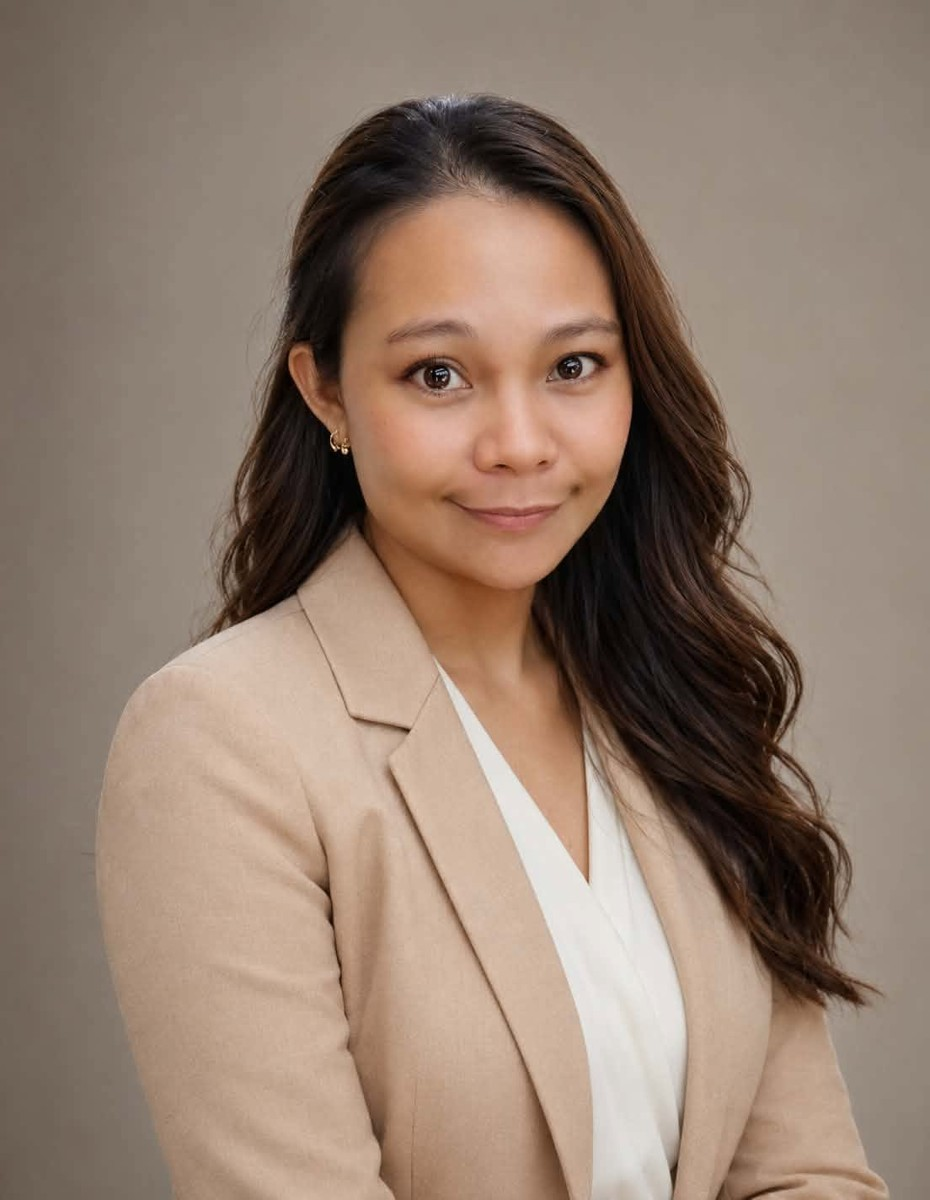
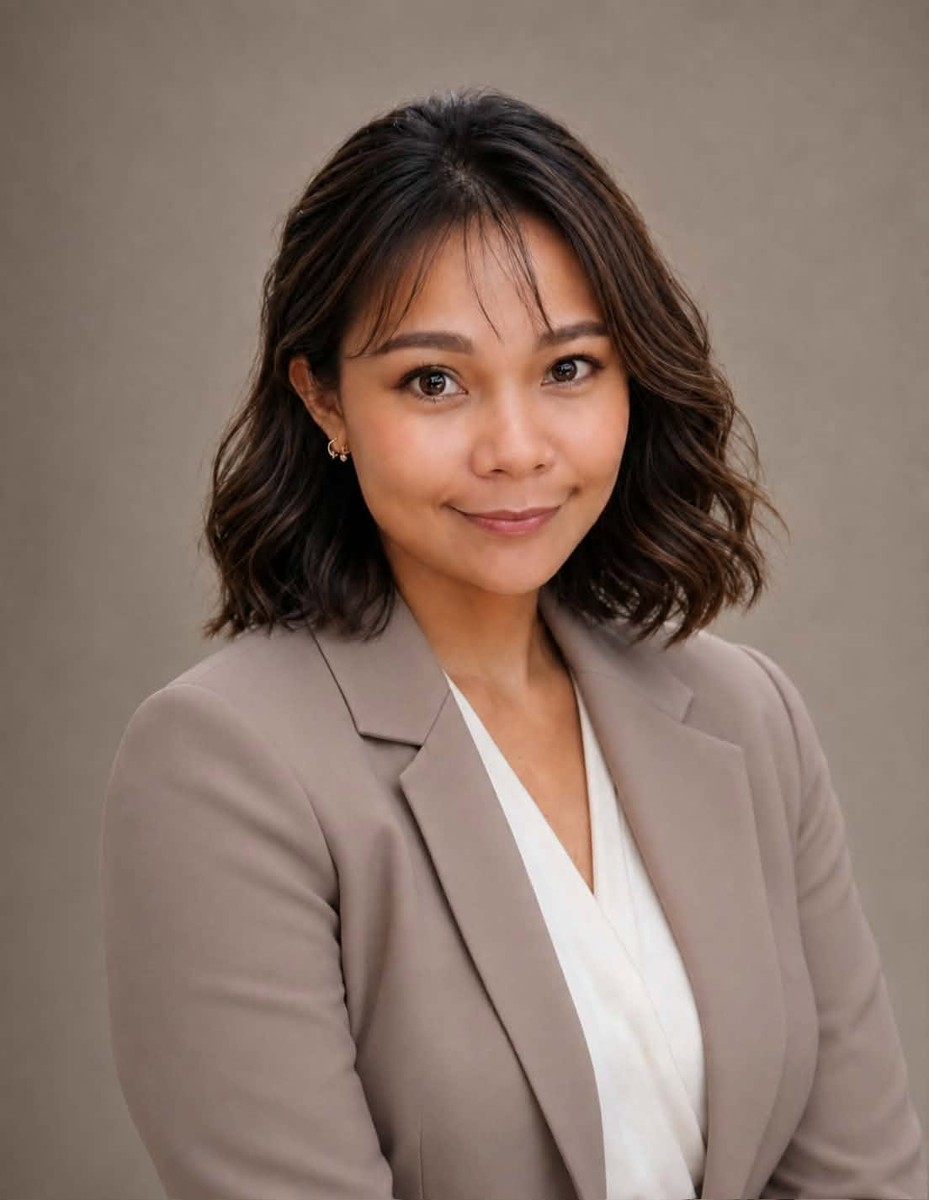
Azure Urban Resort Residences Staycation

diff --git a/app/booking-process/page.tsx b/app/booking-process/page.tsx
@@ -1,0 +1,91 @@
+import Header from "../components/Header";
+import Footer from "../components/Footer";
+
+export const metadata = {
+  title: "Booking Process — Azure Staycation by Siaos",
+  description:
+    "How to book your staycation with Azure Staycation by Siaos — reservation, guest registration, parking, and check-in process.",
+};
+
+export default function BookingProcessPage() {
+  return (
+    <div className="flex flex-col">
+      <Header />
+      <article className="mx-auto max-w-2xl px-6 pt-16 pb-24">
+        <p className="uppercase tracking-[0.2em] text-xs font-semibold text-sage-deep mb-3">
+          Azure Staycation by Siaos
+        </p>
+        <h1 className="font-display text-4xl text-ink mb-6">Booking Process</h1>
+        <p className="text-ink-soft leading-relaxed mb-10">
+          Please make sure you&rsquo;ve gone through our{" "}
+          <a href="/house-rules" className="text-clay-deep underline">
+            house rules
+          </a>{" "}
+          and Azure management policies to avoid extra charges and penalties.
+        </p>
+
+        <div className="space-y-10 [&_h2]:font-display [&_h2]:text-xl [&_h2]:text-ink [&_h2]:mb-3 [&_p]:text-ink-soft [&_p]:leading-relaxed [&_p]:mb-3">
+          <div>
+            <h2>1. Send the reservation fee</h2>
+            <p>QR codes are available on our Payment Channels page. You can pay via:</p>
+            <ul className="list-disc pl-5 text-ink-soft space-y-1 mb-3">
+              <li>GCash — 0920 970 1226</li>
+              <li>Maya — 0920 970 1226</li>
+              <li>Vybe — 0920 970 1226</li>
+              <li>BPI — available upon request</li>
+            </ul>
+            <p>All accounts are under Lyryque Lysl Camylle Siaotong. Once done, please send us your payment proof for verification.</p>
+          </div>
+
+          <div>
+            <h2>2. Fill out our guest registration form</h2>
+            <p>
+              Please include valid IDs for all occupants for guest
+              registration. Provide copies of government-issued IDs for all
+              occupants aged 18 and above. If the ID doesn&rsquo;t show an
+              age, please include it on the form. For foreign nationals,
+              please send their IDs as well.
+            </p>
+          </div>
+
+          <div>
+            <h2>3. QR code issuance</h2>
+            <p>
+              Your entry QR code will be issued a day before check-in or on
+              the check-in day itself. We process guest registrations one at
+              a time, as other guests may have booked before you — rest
+              assured you&rsquo;ll receive it a day before or on the day of
+              your check-in.
+            </p>
+          </div>
+
+          <div>
+            <h2>4. Parking (optional)</h2>
+            <p>
+              Please let us know ahead of time if you&rsquo;ll need a
+              parking slot. With pre-arranged parking, you won&rsquo;t need
+              to line up before parking and exiting — you&rsquo;ll still
+              need to line up at the verification booth on arrival, but
+              afterward you&rsquo;ll be issued a parking pass with a
+              designated slot you can enter and exit multiple times during
+              your stay. Just inform security at the parking entrance/exit.
+            </p>
+          </div>
+        </div>
+
+        <p className="text-sm text-ink-soft mt-10 pt-6 border-t border-ink/10">
+          Questions about the booking process? Contact us at{" "}
+          <a href="mailto:staycationnearme2023@gmail.com" className="text-clay-deep underline">
+            staycationnearme2023@gmail.com
+          </a>{" "}
+          or{" "}
+          <a href="tel:+639209701226" className="text-clay-deep underline">
+            +63 920 970 1226
+          </a>
+          .
+        </p>
+      </article>
+      <Footer />
+    </div>
+  );
+}

diff --git a/app/payment-channels/page.tsx b/app/payment-channels/page.tsx
@@ -1,0 +1,71 @@
+import Image from "next/image";
+import Header from "../components/Header";
+import Footer from "../components/Footer";
+
+export const metadata = {
+  title: "Payment Channels — Azure Staycation by Siaos",
+  description:
+    "Accepted payment methods for Azure Staycation by Siaos: GCash, Maya, Vybe, and BPI bank transfer.",
+};
+
+const CHANNELS = [
+  { name: "GCash", number: "0920 970 1226", qr: "/images/payment/qr-1.jpg" },
+  { name: "Maya", number: "0920 970 1226", qr: "/images/payment/qr-2.jpg" },
+  { name: "Vybe", number: "0920 970 1226", qr: "/images/payment/qr-3.jpg" },
+  { name: "BPI", number: "Available upon request", qr: "/images/payment/qr-4.jpg" },
+];
+
+export default function PaymentChannelsPage() {
+  return (
+    <div className="flex flex-col">
+      <Header />
+      <article className="mx-auto max-w-3xl px-6 pt-16 pb-24">
+        <p className="uppercase tracking-[0.2em] text-xs font-semibold text-sage-deep mb-3">
+          Azure Staycation by Siaos
+        </p>
+        <h1 className="font-display text-4xl text-ink mb-4">Payment Channels</h1>
+        <p className="text-ink-soft leading-relaxed mb-10 max-w-xl">
+          All accounts are under Lyryque Lysl Camylle Siaotong. We do not
+          accept cash payments — please ensure you can transfer online.
+          Scan a QR code below, or send directly to the number listed.
+        </p>
+
+        <div className="grid sm:grid-cols-2 gap-6 mb-12">
+          {CHANNELS.map((c) => (
+            <div key={c.name} className="bg-cream-card border border-ink/10 rounded-2xl p-6 text-center">
+              <h2 className="font-display text-xl text-ink mb-3">{c.name}</h2>
+              <div className="relative aspect-square w-40 mx-auto mb-3 rounded-lg overflow-hidden border border-ink/10">
+                <Image src={c.qr} alt={`${c.name} QR code`} fill sizes="160px" className="object-contain bg-white" />
+              </div>
+              <p className="text-sm text-ink-soft">{c.number}</p>
+            </div>
+          ))}
+        </div>
+
+        <div className="space-y-3 text-ink-soft leading-relaxed border-t border-ink/10 pt-8">
+          <h2 className="font-display text-xl text-ink mb-2">Good to know</h2>
+          <ul className="list-disc pl-5 space-y-2">
+            <li>Reservations are on a first-come, first-served basis and subject to room availability.</li>
+            <li>The reservation fee is non-refundable.</li>
+            <li>For cancellations on peak dates/holidays, rescheduling is not allowed. Peak dates, holidays, wedding proposals, engagement parties, stag parties, and bridal showers require a 50% reservation fee.</li>
+            <li>We reserve the right to set the reservation fee depending on your selected date.</li>
+            <li>Please send a screenshot of your payment once completed. Balance upon arrival must also be settled via GCash, Maya, Vybe, or BPI bank transfer only.</li>
+          </ul>
+        </div>
+
+        <p className="text-sm text-ink-soft mt-10 pt-6 border-t border-ink/10">
+          Please also review our{" "}
+          <a href="/house-rules" className="text-clay-deep underline">
+            house rules
+          </a>{" "}
+          and{" "}
+          <a href="/terms-and-conditions" className="text-clay-deep underline">
+            terms and conditions
+          </a>{" "}
+          to avoid any unnecessary charges.
+        </p>
+      </article>
+      <Footer />
+    </div>
+  );
+}

diff --git a/app/page.tsx b/app/page.tsx
@@ -34,8 +34,8 @@ const SOCIAL_PROOFS = [
 
 const READY_TO_BOOK = [
   { label: "House Rules", href: "/house-rules", internal: true },
-  { label: "Booking Process", href: CANVA_LINKS.bookingProcess, internal: false },
-  { label: "Payment Channels", href: CANVA_LINKS.paymentChannels, internal: false },
+  { label: "Booking Process", href: "/booking-process", internal: true },
+  { label: "Payment Channels", href: "/payment-channels", internal: true },
   { label: "Terms and Conditions", href: "/terms-and-conditions", internal: true },
 ];
 
@@ -97,7 +97,7 @@ export default function Home() {
                 rel="noopener noreferrer"
                 className="rounded-full border border-ink/20 px-7 py-3 font-semibold text-ink hover:border-ink transition-colors"
               >
-                Exclusions: motor and pool access
+                Exclusions: Parking fee and Pool access
               </a>
             </div>
           </div>
@@ -262,17 +262,21 @@ export default function Home() {
       </section>
 
       {/* Ready to Book */}
-      <section className="mx-auto max-w-6xl px-6 py-20 text-center">
-        <div className="flex items-center justify-center gap-3 mb-10">
-          <h2 className="font-display text-3xl text-ink">Ready to Book?</h2>
+      <section className="mx-auto max-w-6xl px-6 py-24 text-center">
+        <div className="flex items-center justify-center gap-3 mb-4">
+          <h2 className="font-display text-4xl text-ink">Ready to Book?</h2>
         </div>
-        <div className="grid grid-cols-2 md:grid-cols-4 gap-4 mb-10">
+        <p className="text-ink-soft max-w-lg mx-auto mb-12">
+          Everything you need to know before your stay — review these, then
+          send us your inquiry below.
+        </p>
+        <div className="grid grid-cols-2 md:grid-cols-4 gap-5">
           {READY_TO_BOOK.map((r) =>
             r.internal ? (
               <Link
                 key={r.label}
                 href={r.href}
-                className="rounded-xl border border-ink/10 px-4 py-6 text-sm font-semibold text-ink hover:border-clay-deep hover:text-clay-deep transition-colors"
+                className="rounded-2xl border border-ink/10 bg-cream-card px-6 py-10 text-base font-semibold text-ink hover:border-clay-deep hover:text-clay-deep hover:shadow-md transition-all"
               >
                 {r.label}
               </Link>
@@ -282,19 +286,13 @@ export default function Home() {
                 href={r.href}
                 target="_blank"
                 rel="noopener noreferrer"
-                className="rounded-xl border border-ink/10 px-4 py-6 text-sm font-semibold text-ink hover:border-clay-deep hover:text-clay-deep transition-colors"
+                className="rounded-2xl border border-ink/10 bg-cream-card px-6 py-10 text-base font-semibold text-ink hover:border-clay-deep hover:text-clay-deep hover:shadow-md transition-all"
               >
                 {r.label}
               </a>
             )
           )}
         </div>
-        <Link
-          href="/proposals#book"
-          className="inline-block rounded-full bg-clay-deep text-sand-light px-8 py-4 font-semibold hover:bg-ink transition-colors"
-        >
-          Book your celebration
-        </Link>
       </section>
 
       <BookingForm

diff --git a/app/components/TeamSection.tsx b/app/components/TeamSection.tsx
@@ -15,31 +15,29 @@ const TEAM = [
 
 export default function TeamSection() {
   return (
-    <section className="mx-auto max-w-6xl px-6 py-20">
-      <div className="flex items-center gap-3 mb-4">
-        <h2 className="font-display text-3xl text-ink">Meet the Team</h2>
-      </div>
-      <p className="text-ink-soft max-w-lg mb-10">
-        Real people behind every setup — here to help plan your celebration
-        and make sure your stay goes smoothly.
-      </p>
-      <div className="grid grid-cols-2 sm:grid-cols-4 gap-6 max-w-2xl">
-        {TEAM.map((member) => (
-          <div key={member.name} className="text-center">
-            <div className="relative aspect-[3/4] rounded-2xl overflow-hidden border border-ink/10 mb-3">
-              <Image
-                src={member.img}
-                alt={member.name}
-                fill
-                sizes="(max-width: 768px) 50vw, 25vw"
-                className="object-cover"
-              />
+    <section className="mx-auto max-w-6xl px-6 py-24 text-center">
+        <h2 className="font-display text-4xl text-ink mb-4">Meet the Team</h2>
+        <p className="text-ink-soft max-w-lg mx-auto mb-14">
+          Real people behind every setup — here to help plan your celebration
+          and make sure your stay goes smoothly.
+        </p>
+        <div className="flex flex-wrap justify-center gap-10">
+          {TEAM.map((member) => (
+            <div key={member.name} className="w-56">
+              <div className="relative aspect-[3/4] rounded-2xl overflow-hidden border border-ink/10 shadow-sm mb-4">
+                <Image
+                  src={member.img}
+                  alt={member.name}
+                  fill
+                  sizes="224px"
+                  className="object-cover"
+                />
+              </div>
+              <p className="font-display text-2xl text-ink">{member.name}</p>
+              <p className="text-sm text-ink-soft">{member.role}</p>
             </div>
-            <p className="font-display text-lg text-ink">{member.name}</p>
-            <p className="text-xs text-ink-soft">{member.role}</p>
-          </div>
-        ))}
-      </div>
+          ))}
+        </div>
     </section>
   );
 }

diff --git a/app/layout.tsx b/app/layout.tsx
@@ -1,10 +1,38 @@
 import type { Metadata } from "next";
 import "./globals.css";
 
+const siteUrl = "https://azurestaycationbysiaos.vercel.app";
+const siteTitle =
+  "Azure Staycation by Siaos — Staycation, Celebration & Proposal Packages in Parañaque";
+const siteDescription =
+  "A modern boho 1-bedroom staycation at Azure Urban Resort Residences, Parañaque. Book a romantic getaway, intimate celebration, or themed room decoration for anniversaries, birthdays, welcome-home celebrations, and wedding proposals — good for up to 4 guests.";
+
 export const metadata: Metadata = {
-  title: "Azure Staycation by Siaos — Proposal Staycation in Parañaque",
-  description:
-    "A modern boho 1-bedroom staycation at Azure Urban Resort Residences, Parañaque — built for the moment you get down on one knee. Proposal setups, anniversaries, and intimate celebrations, good for up to 4 guests.",
+  metadataBase: new URL(siteUrl),
+  title: siteTitle,
+  description: siteDescription,
+  openGraph: {
+    title: siteTitle,
+    description: siteDescription,
+    url: siteUrl,
+    siteName: "Azure Staycation by Siaos",
+    locale: "en_PH",
+    type: "website",
+    images: [
+      {
+        url: "/images/hero-banner.jpg",
+        width: 2048,
+        height: 768,
+        alt: "Azure Staycation by Siaos — celebration and proposal setups",
+      },
+    ],
+  },
+  twitter: {
+    card: "summary_large_image",
+    title: siteTitle,
+    description: siteDescription,
+    images: ["/images/hero-banner.jpg"],
+  },
 };
 
 export default function RootLayout({
